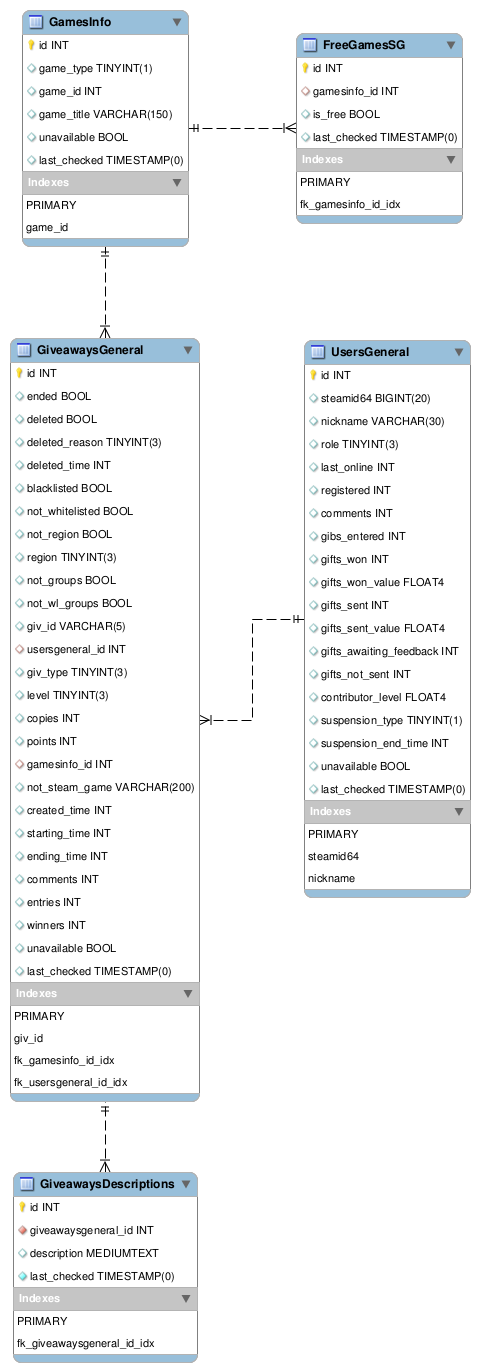
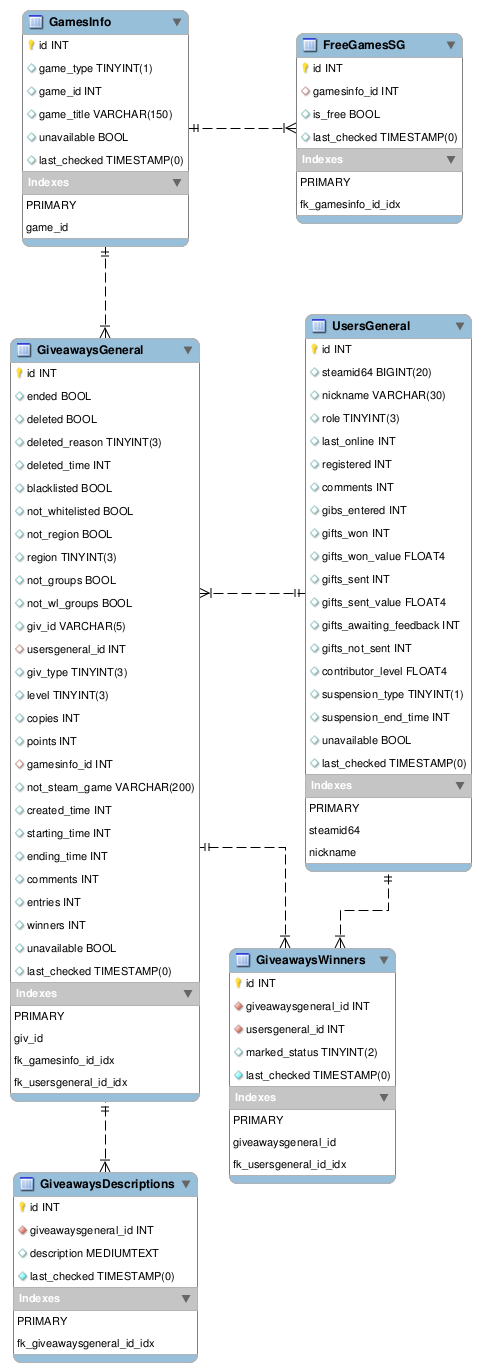
Reflect changes in commit 6165c669e83d0bfd1b11bcafd44c6fe67d8031bd
On the linked commit the IGiveaways/GetGivWinners method was introduced. The following files that are being added and/or modified are to reflect this change (things like the documentation, DB schema, new translation dictionaries).

diff --git a/documentation/igiveaways.html b/documentation/igiveaways.html
@@ -18,7 +18,7 @@
 	<i class="fa fa-link"></i>
 	<h2 id="GetGivInfo" class="hyperlink-title">GetGivInfo</h2>
 </a>
-<p>Provides general information about a giveaway. This is the information that can be seen when checking the giveaway, the level, the type, the comments, entries, etc. This method implements a cache to avoid sending many unnecesary requests to SG: non-ended giveaways have a cache of 3 hours, while ended giveaways have a cache of 3 days.</p>
+<p>Provides general information about a giveaway. This is the information that can be seen when checking the giveaway, the level, the type, the comments, entries, etc. This method implements a cache to avoid sending unnecesary requests to SG: non-ended giveaways have a cache of 3 hours, while ended giveaways have a cache of 3 days.</p>
 <a class="hidden-link" href="#GetGivInfo-Request">
 	<i class="fa fa-link"></i>
 	<h4 id="GetGivInfo-Request" class="hyperlink-title">REQUEST</h4>
@@ -98,5 +98,88 @@
 	<h4 id="GetGivInfo-Notes" class="hyperlink-title">NOTES</h4>
 </a>
 <p>This method is connected with multiple tables, and the <a class="generic-link" href="interactions#GetGameTitle">Interactions/GetGameTitle</a> method in some cases, and since it depends on Steam not being down the whole request might fail with a 500 status code error and the specific error code 1.</p>
+<hr>
+<a class="hidden-link hyperlink-method" href="#GetGivWinners">
+	<i class="fa fa-link"></i>
+	<h2 id="GetGivWinners" class="hyperlink-title">GetGivWinners</h2>
+</a>
+<p>Provides information on the giveaway winners. <b>This method only allows for giveaways with a maximum of 250 winners for now.</b> This method won't show anonymous winners until they become public. If the giveaway ended less than a day ago the winners data has a cache of 2 hours; if it ended more than a day ago but less than a week ago the winners data has a cache of 12 hours; and if it ended more than a week ago the winners data has a cache of 1 day.</p>
+<a class="hidden-link" href="#GetGivWinners-Request">
+	<i class="fa fa-link"></i>
+	<h4 id="GetGivWinners-Request" class="hyperlink-title">REQUEST</h4>
+</a>
+<p>This is a GET request. The link is <a class="generic-link" href="http://api.sighery.com/SteamGifts/IGiveaways/GetGivWinners/" target="_blank">http://api.sighery.com/SteamGifts/IGiveaways/GetGivWinners/</a>. The valid arguments are:</p>
+<ul>
+	<li class="arguments-list"><b>id</b>: Required. This argument value is the giveaway id.</li>
+	<li class="arguments-list"><b>sgsid</b>: Optional. <b>UNAVAILABLE FOR NOW</b>. This argument value is the PHPSESSID cookie so the request is made using your account, bypassing limitations like the region, group, blacklist and/or whitelist.</li>
+</ul>
+<p><b>Example requests:</b></p>
+<a class="example-link" href="http://api.sighery.com/SteamGifts/IGiveaways/GetGivWinners/?id=tFIrl" target="_blank">http://api.sighery.com/SteamGifts/IGiveaways/GetGivWinners/?id=tFIrl</a>
+<a class="hidden-link" href="#GetGivWinners-SuccessfulResponse">
+	<i class="fa fa-link"></i>
+	<h4 id="GetGivWinners-SuccessfulResponse" class="hyperlink-title hyperlink-title-more-margin">SUCCESSFUL RESPONSE</h4>
+</a>
+<p>The successful JSON response will contain the following keys:</p>
+<ul>
+	<li class="keys-list"><b>id</b>: String. Contains the ID of the giveaway.</li>
+	<li class="keys-list"><b>winners_total</b>: Integer. Contains the total number of winners of a giveaway or <code>null</code> if the giveaway hasn't ended yet.</li>
+	<li class="keys-list"><b>winners</b>: Array. Contains the dictionaries with each winner's data. <b>The API won't include the winners that aren't public yet. To check the amount of public winners (who have marked their win already), you can simply check the length of the array.</b> Each of the dictionaries on the array will have the following keys: <code>nickname</code> for the winner's nickname (string) and <code>marked_status</code> for the marked status of their win (integer, you can check the <a class="generic-link" href="https://github.com/Sighery/steamgifts-api/blob/master/translations/marked-status.json" target="_blank">translation dictionary on the repository</a> to know what each number means). Example:</li>
+	<pre class="code-block" style="width: 350px;">
+<code>{
+	"winners": [
+		{
+			"nickname": "Sighery",
+			"marked_status": 1
+		},
+		{
+			"nickname": "cg",
+			"marked_status": 2
+		}
+	]
+}</code>
+	</pre>
+</ul>
+<a class="hidden-link" href="#GetGivWinners-Errors">
+	<i class="fa fa-link"></i>
+	<h4 id="GetGivWinners-Errors" class="hyperlink-title">ERRORS</h4>
+</a>
+<p>I try to catch every possible error and produce a proper error response, but that isn't always possible. You should prepare your code to handle any unexpected error reported by the API. You could do this by checking the status code of the response, a successful response will always give back a 200 status code.</p>
+<p>If the error was catched, the error response JSON will only have the keys <code>code</code> for the specific code and <code>description</code> for a short description of the error code unless noted otherwise. The list for catchable errors and their specific codes is the following (almost identical to <a class="generic-link" href="#GetGivInfo">IGiveaways/GetGivInfo</a>):</p>
+<ol>
+	<li><p><b>Status code 400</b>: Usually caused by some illegal or missing parameter on the request sent by the user.</p></li>
+	<ul>
+		<li class="keys-list"><b>Code 0</b>: The required <code>id</code> is either missing or is invalid.</li>
+		<li class="keys-list"><b>Code 1</b>: The optional <code>sgsid</code> argument is invalid, contains non alphanumeric characters.</li>
+	</ul>
+	<li><p><b>Status code 500</b>: Usually caused by some error on the request to SteamGifts and/or Steam. Can be caused by them being down as well. Some of the error responses might contain the <code>id</code> key as well with the giveaway ID.</p></li>
+	<ul>
+		<li class="keys-list"><b>Code 0</b>: There was an error with the request to SteamGifts, it could be down.</li>
+		<li class="keys-list"><b>Code 1</b>: There was an error with the request to Steam, it could be down.</li>
+		<li class="keys-list"><b>Code 2</b>: The asked giveaway doesn't exist.</li>
+		<li class="keys-list"><b>Code 3</b>: The giveaway has been deleted. On top of having the usual <code>code</code> and <code>description</code> keys the error JSON will have the following keys as well: <code>id</code> for the ID of the giveaway (string); <code>user</code> with the nickname of the user who created the giveaway (string); <code>reason</code> with the reason (integer, <a class="generic-link" href="https://github.com/Sighery/steamgifts-api/blob/master/translations/deleted-messages.json" target="_blank">check the deleted reasons translation dictionary</a>. It will return one of those integers or 99 if it's a new one); <code>deleted_time</code> with the Unix timestamp of when was it deleted (integer).</li>
+		<li class="keys-list"><b>Code 4</b>: Equal to code 5, but the API detected that it was blacklisted by the creator as well.</li>
+		<li class="keys-list"><b>Code 5</b>: The giveaway is region-locked and the API couldn't access it. On top of having the usual <code>code</code> and <code>description</code> keys the error JSON will have the following keys as well: <code>id</code> for the ID of the giveaway (string); <code>region</code> with the region of the giveaway (integer, one of the numbers on the <a class="generic-link" href="https://github.com/Sighery/steamgifts-api/blob/master/translations/regions.json" target="_blank">regions translation dictionary</a> or 99 if it's a new region not yet supported).</li>
+		<li class="keys-list"><b>Code 6</b>: Equal to code 7, but the API detected that it was blacklisted by the creator as well.</li>
+		<li class="keys-list"><b>Code 7</b>: The giveaway is for whitelist and certain groups only and the API couldn't access it. On top of having the usual <code>code</code> and <code>description</code> keys the error JSON will have the following keys as well: <code>id</code> for the ID of the giveaway (string).</li>
+		<li class="keys-list"><b>Code 8</b>: Equal to code 9, but the API detected that it was blacklisted by the creator as well.</li>
+		<li class="keys-list"><b>Code 9</b>: The giveaway is for whitelist only and the API couldn't access it. On top of having the usual <code>code</code> and <code>description</code> keys the error JSON will have the following keys as well: <code>id</code> for the ID of the giveaway (string).</li>
+		<li class="keys-list"><b>Code 10</b>: Equal to code 11, but the API detected that it was blacklisted by the creator as well.</li>
+		<li class="keys-list"><b>Code 11</b>: The giveaway is for certain groups only and the API couldn't access it. On top of having the usual <code>code</code> and <code>description</code> keys the error JSON will have the following keys as well: <code>id</code> for the ID of the giveaway (string).</li>
+		<li class="keys-list"><b>Code 12</b>: The giveaway has more than 250 winners. For now the API won't parse giveaways with more than 250 winners to avoid stressing the SG servers.</li>
+	</ul>
+</ol>
+<p class="example-error-response">The error response JSON will always have the following structure, however, it might include other keys on top of the <code>code</code> and <code>description</code> keys, check each specific HTML response status code and specific code to know if they include more keys.</p>
+<pre class="code-block"><code>{
+	"errors":
+	{
+		"code": 0,
+		"description": "Description of the HTML response status code and the specific code mentioned on the code key"
+	}
+}</code></pre>
+<a class="hidden-link" href="#GetGivWinners-Notes">
+	<i class="fa fa-link"></i>
+	<h4 id="GetGivWinners-Notes" class="hyperlink-title">NOTES</h4>
+</a>
+<p>As <a class="generic-link" href="#GetGivInfo">IGiveaways/GetGivInfo</a>, this method is connected with multiple tables, and the <a class="generic-link" href="interactions#GetGameTitle">Interactions/GetGameTitle</a> method as well in some cases, and since it depends on Steam not being down the whole request might fail with a 500 status code error and the specific error code 1.</p>
 </body>
 </html>

diff --git a/public/index.php b/public/index.php
@@ -10,6 +10,7 @@ $app = new \Slim\App;
 
 // IGiveaways endpoint methods
 include_once(__DIR__ . '/../app/SteamGifts/IGiveaways/GetGivInfo.php');
+include_once(__DIR__ . '/../app/SteamGifts/IGiveaways/GetGivWinners.php');
 
 // IUsers endpoint methods
 include_once(__DIR__ . '/../app/SteamGifts/IUsers/GetUserInfo.php');
@@ -18,5 +19,6 @@ include_once(__DIR__ . '/../app/SteamGifts/IUsers/GetUserInfo.php');
 include_once(__DIR__ . '/../app/SteamGifts/Interactions/GetGameTitle.php');
 include_once(__DIR__ . '/../app/SteamGifts/Interactions/IsFree.php');
 include_once(__DIR__ . '/../app/SteamGifts/Interactions/GetMessagesCount.php');
+
 
 $app->run();
